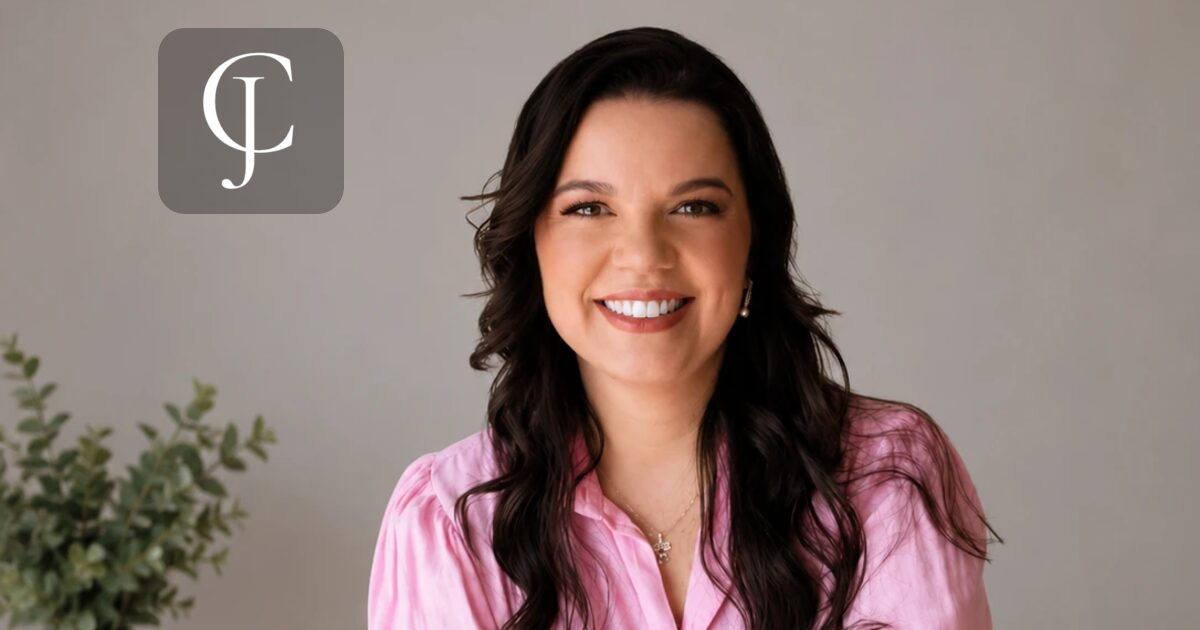
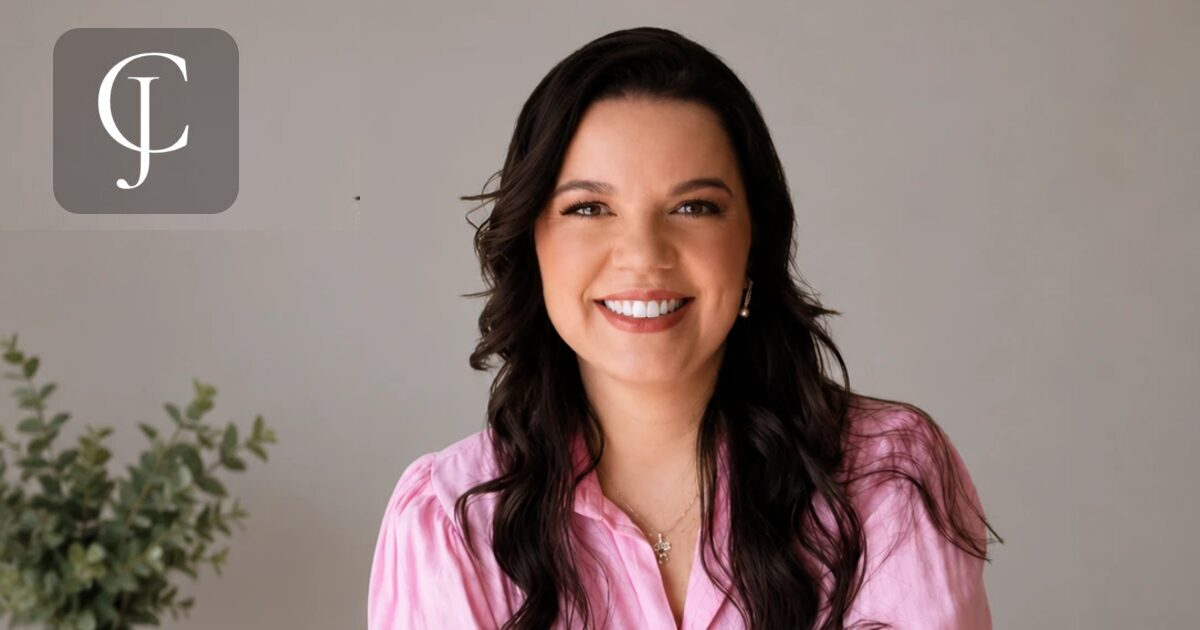
emotion

Changed region(s): [[0.0308, 0.0302, 0.3083, 0.3619]]

diff --git a/public/assets/css/landing.css b/public/assets/css/landing.css
@@ -141,6 +141,32 @@ html[data-niche="emotion"] {
   --hero-image-filter: saturate(0.98) contrast(1.01) brightness(0.99);
 }
 
+html[data-niche="emotion"] {
+  --bg0: #2d1625;
+  --bg1: #3a1d30;
+  --bg2: #4a2540;
+  --card: rgba(78, 41, 68, 0.66);
+  --card-strong: rgba(88, 46, 77, 0.84);
+  --surface-thin: rgba(86, 45, 75, 0.52);
+  --surface-strong: rgba(98, 52, 86, 0.76);
+  --stroke: rgba(255, 163, 208, 0.34);
+  --stroke-soft: rgba(255, 163, 208, 0.2);
+  --body-overlay:
+    radial-gradient(circle at 16% 18%, rgba(255, 181, 219, 0.16), transparent 26%),
+    radial-gradient(circle at 82% 28%, rgba(255, 130, 194, 0.14), transparent 24%),
+    linear-gradient(180deg, rgba(64, 30, 50, 0.16), transparent 42%);
+  --nav-glass-bg: rgba(72, 38, 60, 0.72);
+  --nav-control-bg: rgba(87, 46, 72, 0.66);
+  --hero-badge-bg: rgba(78, 41, 65, 0.62);
+  --pill-bg: rgba(82, 42, 68, 0.68);
+  --steps-bg: rgba(79, 40, 66, 0.72);
+  --glass-bg-start: rgba(88, 48, 75, 0.76);
+  --glass-bg-end: rgba(65, 33, 55, 0.88);
+  --footer-bg-start: rgba(70, 35, 58, 0.88);
+  --footer-bg-end: rgba(54, 27, 45, 0.95);
+  --section-divider-mid: rgba(255, 163, 208, 0.36);
+}
+
 html[data-typography="technical"] {
   --font-body: "Roboto", "Segoe UI", system-ui, -apple-system, BlinkMacSystemFont, Arial, sans-serif;
   --font-heading: "Arial", "Segoe UI", system-ui, -apple-system, BlinkMacSystemFont, sans-serif;
@@ -2308,33 +2334,33 @@ html[data-theme="light"] code {
 
 /* Emotion custom palette (based on public/assets/img/img_1.jpg) */
 html[data-niche="emotion"] {
-  --bg0: #f8e7ea;
-  --bg1: #f2dce1;
-  --bg2: #ebd0d7;
+  --bg0: #efbfd0;
+  --bg1: #e8afc4;
+  --bg2: #dfa0b8;
   --text: #2b2326;
   --muted: rgba(93, 72, 79, 0.9);
-  --card: rgba(255, 248, 249, 0.78);
-  --card-strong: rgba(255, 247, 248, 0.9);
-  --surface-thin: rgba(248, 232, 235, 0.66);
-  --surface-strong: rgba(243, 220, 225, 0.82);
-  --stroke: rgba(178, 104, 126, 0.26);
-  --stroke-soft: rgba(178, 104, 126, 0.16);
-  --gradA: 198, 103, 129;
-  --gradB: 180, 93, 119;
-  --gradC: 156, 83, 106;
+  --card: rgba(255, 242, 247, 0.76);
+  --card-strong: rgba(255, 238, 245, 0.9);
+  --surface-thin: rgba(241, 191, 210, 0.58);
+  --surface-strong: rgba(234, 171, 196, 0.74);
+  --stroke: rgba(173, 72, 109, 0.34);
+  --stroke-soft: rgba(173, 72, 109, 0.22);
+  --gradA: 205, 84, 126;
+  --gradB: 187, 73, 112;
+  --gradC: 161, 63, 96;
   --grid-opacity: 0;
   --body-accent-mask: none;
   --body-overlay: none;
-  --nav-glass-bg: #f4dfde;
-  --nav-control-bg: rgba(238, 214, 219, 0.9);
-  --hero-badge-bg: rgba(242, 223, 227, 0.82);
-  --pill-bg: rgba(242, 223, 227, 0.76);
-  --steps-bg: rgba(242, 223, 227, 0.84);
-  --glass-bg-start: rgba(255, 248, 249, 0.95);
-  --glass-bg-end: rgba(246, 234, 236, 0.92);
-  --footer-bg-start: #f4dfde;
-  --footer-bg-end: #f4dfde;
-  --section-divider-mid: rgba(198, 103, 129, 0.3);
+  --nav-glass-bg: #e8afc4;
+  --nav-control-bg: rgba(223, 160, 184, 0.86);
+  --hero-badge-bg: rgba(236, 179, 201, 0.82);
+  --pill-bg: rgba(236, 179, 201, 0.76);
+  --steps-bg: rgba(233, 169, 195, 0.82);
+  --glass-bg-start: rgba(255, 235, 244, 0.92);
+  --glass-bg-end: rgba(242, 198, 218, 0.88);
+  --footer-bg-start: #e8afc4;
+  --footer-bg-end: #dfa0b8;
+  --section-divider-mid: rgba(205, 84, 126, 0.34);
 }
 
 html[data-niche="emotion"] body::before,
@@ -2363,6 +2389,7 @@ html[data-niche="emotion"] .navbar-brand .brand-name {
 
 html[data-niche="emotion"] .navbar-logo-dark {
   display: block;
+  filter: brightness(0.62) contrast(1.2) saturate(0.92);
 }
 
 html[data-niche="emotion"] .navbar-logo-light {
